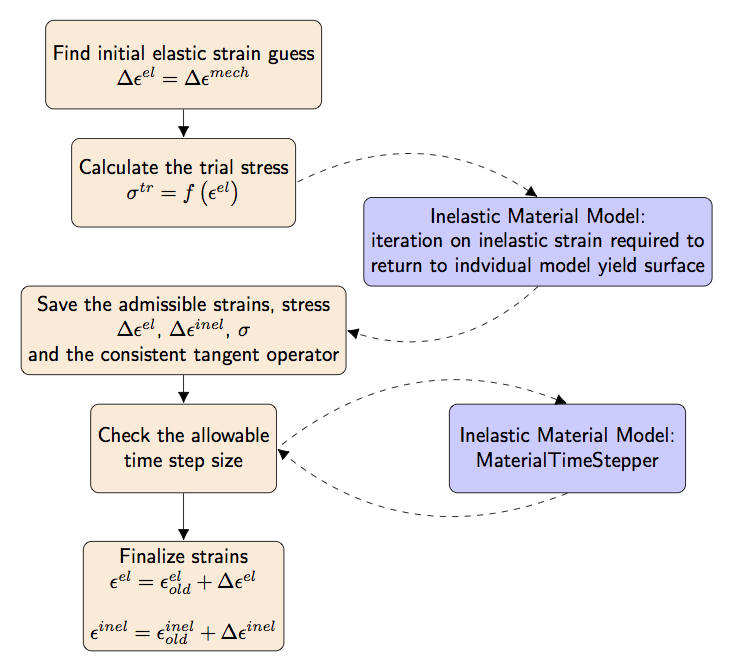
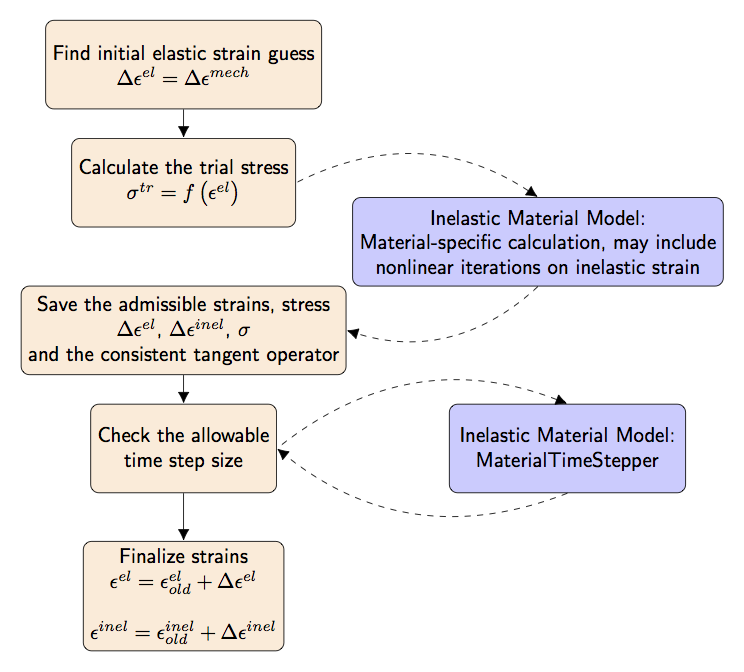
Adjust tikz files for TM docs, Refs #10516

diff --git a/tensor_mechanics/tikz_files/flowchart_ComputeMultipleInelasticStress.tex b/tensor_mechanics/tikz_files/flowchart_ComputeMultipleInelasticStress.tex
@@ -25,8 +25,9 @@
                               {Calculate the trial stress \\
                               $\sigma^{tr}_i = f \left( \epsilon^{el}_i \right)$};
   \node (matAdmissibleBlock)  [separateModel, right of=trialStressBlock, xshift=4.5cm, yshift=-0.5cm]
-                              {Inelastic Material Model: \\ iteration on inelastic strain required to \\ 
-                              return to indvidual model yield surface};  
+                              {Inelastic Material Model: \\ 
+                               Material-specific calculation, may include \\ 
+                               nonlinear iterations on inelastic strain};  
   \node (admissiblesBlock)    [internalIter, below of=trialStressBlock, yshift=-0.5cm]
                               {Save the admissible strains, stress \\
                               $\Delta \epsilon^{el}$, $\Delta \epsilon^{inel}_i$, $\sigma$\\
@@ -42,7 +43,7 @@
   \node (weightedStrainBlock) [process, below of=convergenceBlock, yshift=-2cm]
                               {Calculated the weighted inelastic strains \\ $\Delta \epsilon^{inel}_{com} = \sum_m w_m \Delta \epsilon^{inel}_m $};
   \node (finalizeCTOBlock)    [process, below of=weightedStrainBlock, yshift=-0.5cm]
-                              {Finalize the combined \\ Jacobian multiplier tensor};
+                              {Finalize the combined \\ consistent tangent operator matrix};
   \node (matTimeStepBlock)    [process, below of=finalizeCTOBlock, yshift=-0.5cm] 
                               {Check the allowable \\ time step size};
                               

diff --git a/tensor_mechanics/tikz_files/flowchart_ComputeMultipleInelasticStress-SingleModel.tex b/tensor_mechanics/tikz_files/flowchart_ComputeMultipleInelasticStress-SingleModel.tex
@@ -21,8 +21,9 @@
                               {Calculate the trial stress \\
                               $\sigma^{tr} = f \left( \epsilon^{el} \right)$};
   \node (matAdmissibleBlock)  [separateModel, right of=trialStressBlock, xshift=4.5cm, yshift=-1cm]
-                              {Inelastic Material Model: \\ iteration on inelastic strain required to \\ 
-                              return to indvidual model yield surface};  
+                              {Inelastic Material Model: \\ 
+                               Material-specific calculation, may include \\ 
+                               nonlinear iterations on inelastic strain};  
   \node (admissiblesBlock)    [process, below of=trialStressBlock, yshift=-1cm]
                               {Save the admissible strains, stress \\
                               $\Delta \epsilon^{el}$, $\Delta \epsilon^{inel}$, $\sigma$\\
